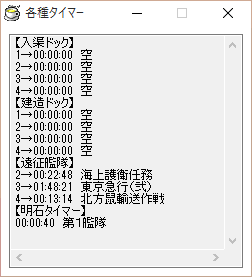
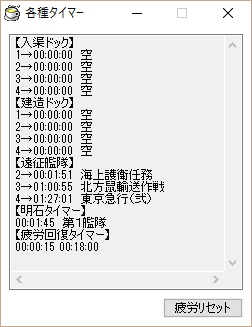
ヘルプを修正した

diff --git a/help/index.html b/help/index.html
@@ -14,11 +14,12 @@
 	</head>
 	<body>
 <!-- タイトル -->
-		<h1>おりこうさんな秘書 Ver.3.3.1</h1>
+		<h1>おりこうさんな秘書 Ver.3.3.2</h1>
 		Twitterアカウント：<a href="https://twitter.com/orikou_hisyo/">@orikou_hisyo</a>(報告用), <a href="https://twitter.com/YSRKEN/">@YSRKEN</a>(作者)<br>
 		公開ページ：<a href="http://www.vector.co.jp/soft/win95/game/se509326.html">http://www.vector.co.jp/soft/win95/game/se509326.html</a><br>
 		紹介動画：<a href="http://www.nicovideo.jp/watch/sm26755860">【艦これ】便利なスクショツール＋αを作ってみた</a><br>
-		紹介スライド：<a href="http://www.slideshare.net/YSRKEN/ss-50964003">おりこうさんな秘書　―画像認識による高機能な艦これユーティリティへの挑戦―</a>
+		紹介スライド-1：<a href="http://www.slideshare.net/YSRKEN/ss-50964003">おりこうさんな秘書　―画像認識による高機能な艦これユーティリティへの挑戦―</a><br>
+		紹介スライド-2：<a href="http://www.slideshare.net/YSRKEN/ss-63099493">「おりこうさんな秘書」に使われている技術・手法について </a>
 		<hr>
 
 <!-- 目次 -->
@@ -398,12 +399,12 @@
 			<p>　だいたい見たまんまなので、それぞれではポイントを書くだけに留めます。</p>
 
 			<h3>各種タイマー</h3>
-			<p>　入渠・建造・遠征について、残り時間を自動でカウントします。また、明石タイマー機能もあります。<br>
+			<p>　入渠・建造・遠征について、残り時間を自動でカウントします。また、明石タイマー・疲労回復タイマー機能もあります。<br>
 			　時間の他に、入渠・建造が<strong>空なドックは「空」と表示</strong>されます(入渠時は艦娘のレベルも表示される)。<br>
 			　遠征の場合、その<strong>遠征名が表示</strong>されます。<br>
 			　残り<strong>1分を切ったらバルーン通知</strong>で知らせてくれます(alert_*.wavを設定していると<a href="#option">音声通知</a>されます)。<br>
 			　なお、<strong>ゲームの画像素材は認識に一切使用していません</strong>。全て自前です。</p>
-			<img src="./images/dock.png" alt="各種タイマー" width="252" height="277">
+			<img src="./images/dock.png" alt="各種タイマー" width="252" height="327">
 
 			<h3>ソート一覧作成機能</h3>
 			<p>　艦娘・装備・基地航空隊の一覧画像を作成する機能です。<br>
@@ -675,8 +676,8 @@
 			</tr>
 			<tr>
 				<td>艦隊情報画面で読み取りミスが有るのですが？</td>
-				<td>Ver.3.3.1時点では、装備改修度に対応していません(艦載機熟練度には対応しています)。<br>
-				また、艦娘・装備の判定ミスは全部潰したはずですが、もしありましたらスレかTwitterまで連絡ください。</td>
+				<td>Ver.3.3.2時点では、艦載機熟練度だけでなく装備改修度にも対応しています。<br>
+				艦娘・装備の判定ミスも全部潰したはずですが、もしありましたらスレかTwitterまで連絡ください。</td>
 			</tr>
 			<tr>
 				<td>このソフトは利用規約に触れませんか？</td>
@@ -838,6 +839,14 @@
 				<th abbr="バージョン">バージョン</th>
 				<th abbr="公開日">公開日</th>
 				<th abbr="変更箇所">変更箇所</th>
+			</tr>
+			<tr>
+				<td>Ver.3.3.2</td>
+				<td>2016/06/19</td>
+				<td>・夜戦開始音がきちんと鳴りきるように修正した。<br>
+				・艦隊情報画面で、<strong>装備改修度</strong>も読み取れるようにした。<br>
+				・周回作業用に<strong>疲労回復タイマー</strong>を実装した。<br>
+				・ソフトのログを、年月の区切りでフォルダ分けして保存するようにした。</td>
 			</tr>
 			<tr>
 				<td>Ver.3.3.1</td>
